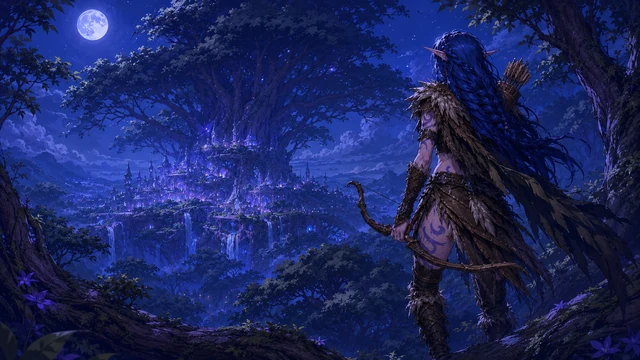
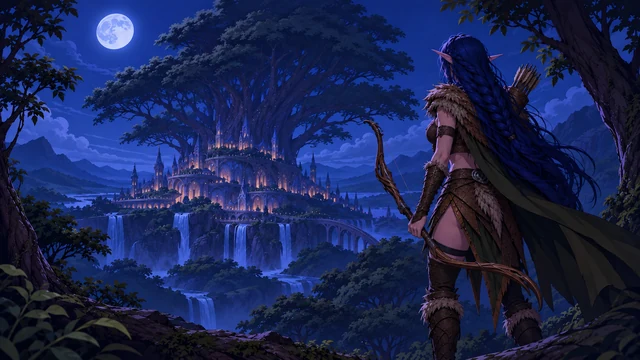
update

diff --git a/css/styles.css b/css/styles.css
@@ -84,7 +84,7 @@ body.js-enhanced .fallback-list { display: none; }
 .selection-panel[data-character="astrea"] { --image-closed: 52% center; --image-open: 50% center; }
 .selection-panel[data-character="beatrix"] { --image-closed: 50% center; --image-open: 48% center; }
 .selection-panel[data-character="tezanji"] { --image-closed: 51% center; --image-open: 48% center; }
-.selection-panel[data-character="demetria"] { --image-closed: 76% center; --image-open: 74% center; }
+.selection-panel[data-character="demetria"] { --image-closed: 55% top; --image-open: 50% top; }
 .selection-panel[data-character="reacher"] { --image-closed: 52% center; --image-open: 52% center; }
 .selection-panel.is-active { flex-grow: var(--selection-expanded-grow, 4); }
 .selection-link { position: relative; display: flex; min-height: 100%; height: 100%; align-items: flex-end; padding: 36px var(--selection-gutter); text-decoration: none; color: var(--text); isolation: isolate; }
@@ -156,6 +156,7 @@ body:not(.js-enhanced) .chapter-section + .chapter-section { margin-top: 48px; p
 .gallery-trigger { display: block; width: 100%; padding: 0; border: 0; background: transparent; cursor: zoom-in; }
 .gallery-trigger:focus-visible { outline: 1px solid var(--accent); outline-offset: 4px; }
 .gallery-image { display: block; width: 100%; aspect-ratio: 5/6; object-fit: cover; }
+body[data-character="demetria"] .gallery-image[src$="demetria_prolog.thumb.webp"] { object-position: 80% center; }
 body[data-character="reacher"] .gallery-image[src$="reacher_1.thumb.webp"] { object-position: 80% center; }
 body[data-character="reacher"] .gallery-image[src$="reacher_2.thumb.webp"] { object-position: 80% center; }
 .gallery-meta { padding: 12px 2px 4px; }

diff --git a/characters/demetria.html b/characters/demetria.html
@@ -9,7 +9,7 @@
   <link rel="stylesheet" href="../css/styles.css">
 </head>
 <body class="character-body" data-character-page="demetria" data-character="demetria">
-  <div class="page-background-layer is-active" id="pageBackgroundPrimary" data-image="../assets/optimized/characters/demetria/gallery/demetria_sel.png" style="background-image: linear-gradient(90deg, rgba(4, 6, 10, 0.78) 0%, rgba(4, 6, 10, 0.54) 34%, rgba(4, 6, 10, 0.12) 54%, rgba(4, 6, 10, 0) 70%), url(&quot;../assets/optimized/characters/demetria/gallery/demetria_sel.png&quot;)" aria-hidden="true"></div>
+  <div class="page-background-layer is-active" id="pageBackgroundPrimary" data-image="../assets/optimized/characters/demetria/gallery/demetria_prolog.webp" style="background-image: linear-gradient(90deg, rgba(4, 6, 10, 0.78) 0%, rgba(4, 6, 10, 0.54) 34%, rgba(4, 6, 10, 0.12) 54%, rgba(4, 6, 10, 0) 70%), url(&quot;../assets/optimized/characters/demetria/gallery/demetria_prolog.webp&quot;)" aria-hidden="true"></div>
   <div class="page-background-layer" id="pageBackgroundSecondary" aria-hidden="true"></div>
   <div class="page-aurora" aria-hidden="true">
     <div class="glow glow-one"></div>

diff --git a/js/data/characters/demetria.js b/js/data/characters/demetria.js
@@ -9,8 +9,8 @@ window.CHARACTER_DEFINITIONS.push({
     "Demetria trägt den Klang alter Wälder und verlorener Heimat mit sich. In ihr begegnen sich Pflicht, Glaube, Sanftmut und die Härte jener Wege, die man allein vor allen anderen geht.",
   accent: "#d5a4ff",
   landingNote: "",
-  landingImage: "assets/characters/demetria/gallery/demetria_prolog.png",
-  landingAlt: "Demetria vor einem violett getönten Waldmotiv",
+  landingImage: "assets/characters/demetria/gallery/demetria_sel.png",
+  landingAlt: "Demetria mit Bogen im mondbeschienenen Wald",
   audio: {
     src: "../assets/characters/demetria/before-the-trees-burned.mp3",
     title: "Before the Trees Burned"

diff --git a/tests/test_site.py b/tests/test_site.py
@@ -28,9 +28,17 @@ class QuietHandler(SimpleHTTPRequestHandler):
     def copyfile(self, source, outputfile):
         try:
             super().copyfile(source, outputfile)
-        except (ConnectionResetError, BrokenPipeError):
+        except (ConnectionResetError, ConnectionAbortedError, BrokenPipeError):
             # Closing a lightbox or context intentionally cancels media transfers.
             pass
+
+
+def css_urls(css):
+    # HTMLParser has already decoded entities such as &quot; in style attributes.
+    return [next(value for value in match if value).strip() for match in re.findall(
+        r'''url\(\s*(?:"([^"]+)"|'([^']+)'|([^\s'"\)][^\)]*?))\s*\)''', css,
+        flags=re.IGNORECASE
+    )]
 
 
 class LocalLinks(HTMLParser):
@@ -40,8 +48,28 @@ class LocalLinks(HTMLParser):
 
     def handle_starttag(self, _tag, attrs):
         for name, value in attrs:
-            if name in ("href", "src") and value:
+            if name in ("href", "src", "data-image") and value:
                 self.links.append(value)
+            elif name == "style" and value:
+                self.links.extend(css_urls(value))
+
+
+class LocalLinksTests(unittest.TestCase):
+    def test_extracts_backgrounds_and_original_links_including_html_entities(self):
+        parser = LocalLinks()
+        parser.feed('''<div data-image="../missing-background.webp"
+          style="background-image: linear-gradient(90deg, #000, transparent),
+            url(&quot;../missing background.webp&quot;), url('../second.webp')"></div>
+          <a href="../index.html"><img src="../preview.webp"></a>''')
+        self.assertCountEqual(parser.links, [
+            "../missing-background.webp", "../missing background.webp", "../second.webp",
+            "../index.html", "../preview.webp"
+        ])
+
+    def test_extracts_unquoted_and_quoted_stylesheet_urls(self):
+        self.assertEqual(css_urls('''background: URL( ../image.webp );
+          src: url("../font with spaces.woff2"); color: rgba(0, 0, 0, .5);'''),
+          ["../image.webp", "../font with spaces.woff2"])
 
 
 class SiteTests(unittest.TestCase):
@@ -147,7 +175,7 @@ class SiteTests(unittest.TestCase):
             parser.feed(html.read_text(encoding="utf-8"))
             for link in parser.links:
                 check(link, html.parent)
-        for link in re.findall(r'url\([\'\"]?([^\)\'\"]+)', (ROOT / "css/styles.css").read_text(encoding="utf-8")):
+        for link in css_urls((ROOT / "css/styles.css").read_text(encoding="utf-8")):
             check(link, ROOT / "css")
         for character in self.characters.values():
             if not character["published"]:
@@ -160,6 +188,64 @@ class SiteTests(unittest.TestCase):
                     check(variant, parent)
             if character.get("audio"):
                 check(character["audio"]["src"], ROOT / "characters")
+
+    def test_demetria_selection_prolog_and_gallery_load_their_distinct_images(self):
+        image_directory = "/assets/optimized/characters/demetria/gallery/"
+        selection_path = image_directory + "demetria_sel.webp"
+        prolog_path = image_directory + "demetria_prolog.webp"
+        thumbnail_path = image_directory + "demetria_prolog.thumb.webp"
+        original_path = "/assets/characters/demetria/gallery/demetria_prolog.png"
+        responses = {}
+        self.page.on("response", lambda response: responses.update({urlsplit(response.url).path: response.status}))
+
+        def assert_background_loaded(page, selector, path):
+            self.assertIn(self.base + path, page.locator(selector).evaluate(
+                "element => getComputedStyle(element).backgroundImage"
+            ))
+            # Backgrounds have no naturalWidth; decode the displayed resource as an image.
+            self.assertTrue(page.evaluate("""async path => {
+              const image = new Image(); image.src = path;
+              await image.decode(); return image.naturalWidth > 0 && image.naturalHeight > 0;
+            }""", path))
+
+        self.open_selection()
+        self.page.locator('[data-character="demetria"] a').focus()
+        self.assert_active_selection("demetria", focused=True)
+        assert_background_loaded(self.page, '[data-character="demetria"] .selection-media', selection_path)
+        self.assertEqual(responses.get(selection_path), 200)
+        self.assertNotIn(prolog_path, responses, "Selection should not request the chapter artwork")
+
+        self.open_character("demetria", "#prolog")
+        self.assert_chapter("prolog")
+        assert_background_loaded(self.page, ".page-background-layer.is-active", prolog_path)
+        self.assertEqual(responses.get(prolog_path), 200)
+        self.assertTrue(self.page.locator(".page-background-layer.is-active").get_attribute("data-image").endswith(prolog_path))
+        self.page.locator("#jumpToGallery").click()
+        preview = self.page.locator("#galleryGrid img").first
+        self.page.wait_for_function("""() => {
+          const image = document.querySelector('#galleryGrid img');
+          return image.complete && image.naturalWidth > 0;
+        }""")
+        self.assertEqual(urlsplit(preview.get_attribute("src")).path, ".." + thumbnail_path)
+        self.assertEqual(responses.get(thumbnail_path), 200)
+        self.page.locator(".gallery-trigger").first.click()
+        self.page.wait_for_function("""() => {
+          const image = document.getElementById('lightboxImage');
+          return image.complete && image.naturalWidth > 0;
+        }""")
+        self.assertEqual(self.page.locator("#lightboxImage").evaluate("image => new URL(image.currentSrc).pathname"), original_path)
+        self.assertEqual(responses.get(original_path), 200)
+
+        context = self.browser.new_context(java_script_enabled=False)
+        try:
+            page = context.new_page()
+            with page.expect_response(self.base + prolog_path) as prolog_response:
+                page.goto(f"{self.base}/characters/demetria.html#prolog")
+            self.assertEqual(prolog_response.value.status, 200)
+            self.assertTrue(page.locator("#prolog").is_visible())
+            assert_background_loaded(page, ".page-background-layer.is-active", prolog_path)
+        finally:
+            context.close()
 
     def test_all_published_chapters_are_complete_and_readable_without_javascript(self):
         context = self.browser.new_context(java_script_enabled=False, viewport={"width": 1440, "height": 900})

diff --git a/STATUS.md b/STATUS.md
@@ -1,8 +1,17 @@
 # Status
 
-Stand: 2026-10-20
+Stand: 2026-10-23
 
-## Ergänzung Reacher
+## Demetria: Auswahlbild und Prolog
+
+- Demetrias Auswahl verwendet das neue Porträt `assets/characters/demetria/gallery/demetria_sel.png`; der Prolog behält `demetria_prolog.png`. Der Alternativtext beschreibt das Auswahlmotiv mit Bogen im mondbeschienenen Wald. Die generierte Charakterseite lädt wieder das gültige Prolog-WebP als ersten Hintergrund, auch ohne JavaScript.
+- Ausschließlich Demetrias Bildausschnitte angepasst: Auswahl oben ausgerichtet, damit das Gesicht im Hochformat sichtbar bleibt; die Prolog-Galerievorschau zeigt den rechten Motivbereich. Vier WebP-Dateien einschließlich zweier neuer Auswahlbild-Derivate und das Manifest aktualisiert. Nutzertexte sowie Originalbilder, Audio- und Schriftdateien blieben unverändert.
+- Aktueller Bild- und Schriftbestand ohne Audio: 70.928.460 Bytes Originaldateien, 5.850.900 Bytes optimierte Derivate. `--check` und die unabhängige Hashprüfung bestätigen 31 Originaldateien und 58 Derivate. Alle 81 Bildreferenzen und sämtliche Audiopfade sind vorhanden; die sieben erzeugten Seiten sind aktuell und deterministisch.
+- `python -B -m unittest discover -s tests -v`: alle 18 Tests bestanden (12,889 Sekunden), einschließlich dreier neuer Prüfungen. Die Pfadprüfung erfasst jetzt auch `data-image` und CSS-`url()`; Demetrias getrennte Auswahl- und Prologmotive werden einschließlich Bilddekodierung, Aufruf ohne JavaScript, Galerie und Originalbild geprüft. Die Suite deckt weiterhin sechs veröffentlichte Figuren, 19 Kapitel, sieben Seiten, 30 Auswahlzustände und vier Lesefensterbreiten ab.
+- Zusätzlicher Browserrundgang: alle sechs Figuren, 19 Kapitel, 21 Galerieoriginale samt Vorschauen und sechs Musikstücke einschließlich Start, Lautstärke und Pause erfolgreich; keine HTTP- oder JavaScript-Fehler. Demetrias offene und geschlossene Auswahl bei 1024, 1440 und 2560 Pixeln, alle vier Kapitel und die Galerie bei 1440 Pixeln sowie der Prolog bei 1024 Pixeln visuell geprüft.
+- Abschließendes Review ohne wichtige Befunde freigegeben. Änderungen liegen lokal vor; kein Commit, Push oder Deployment ausgeführt. Eine neue Messung des Startseitentransfers wurde nicht durchgeführt.
+
+## Vorheriger Stand vom 2026-10-20: Ergänzung Reacher
 
 - Reacher ist als sechste veröffentlichte Figur in die bestehende Charakterauswahl aufgenommen, einschließlich direktem Ersatzlink ohne JavaScript. Brixxli bleibt unveröffentlicht; insgesamt werden sieben Charakterseiten erzeugt.
 - Drei Kapitel auf Grundlage der Nutzervorgaben ausgearbeitet: eigenwillige Privatermittlerin mit Hang zur Eigenjustiz, Überleben des Worgenangriffs und des Fluchs sowie wechselnde Ermittlungsorte in den Städten der Allianz. Damit stehen 19 veröffentlichte Kapitel im HTML.
